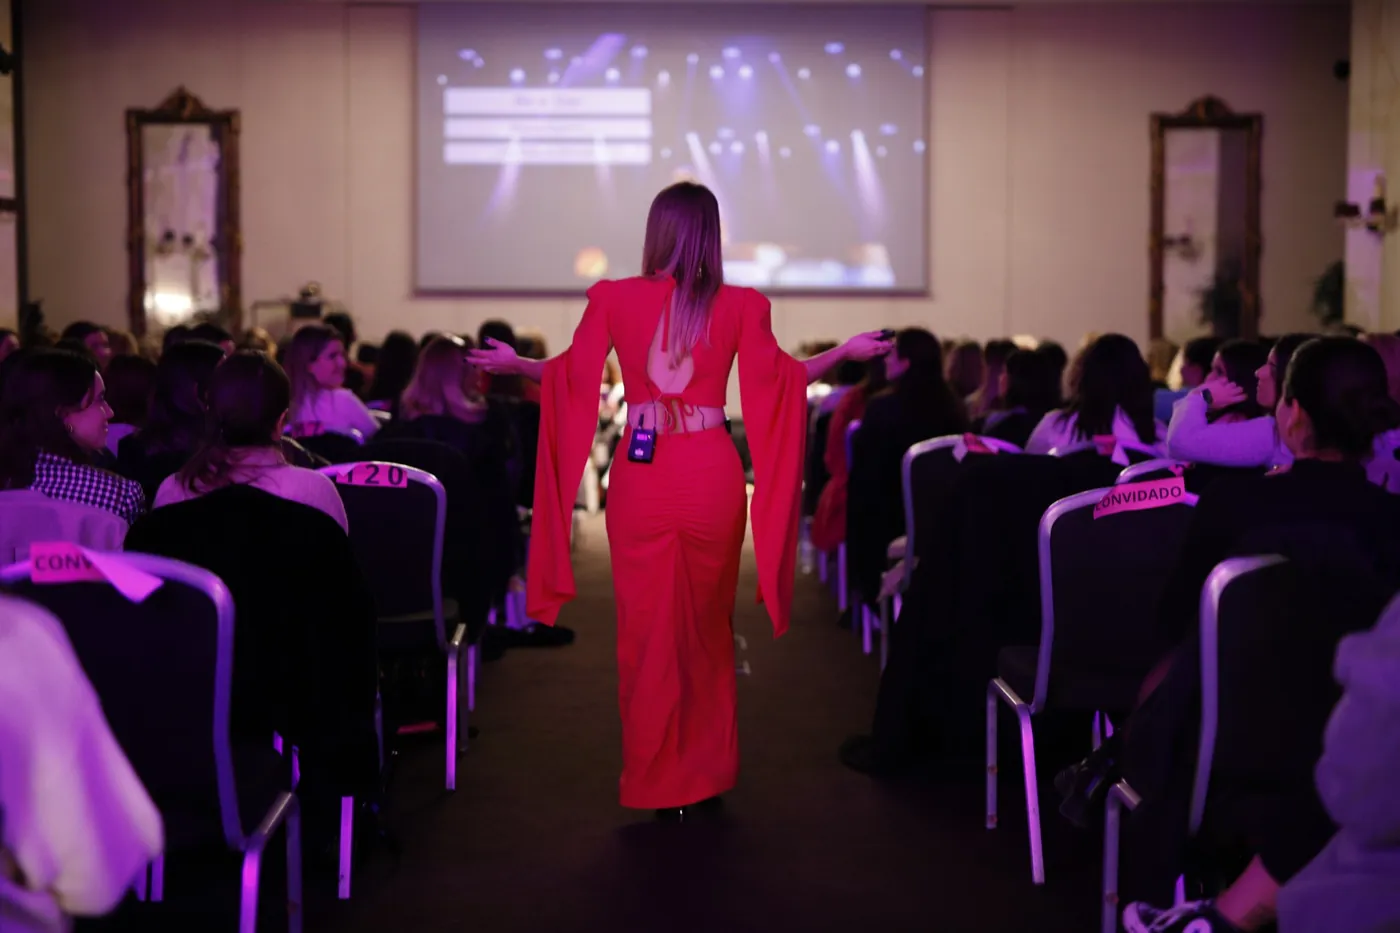
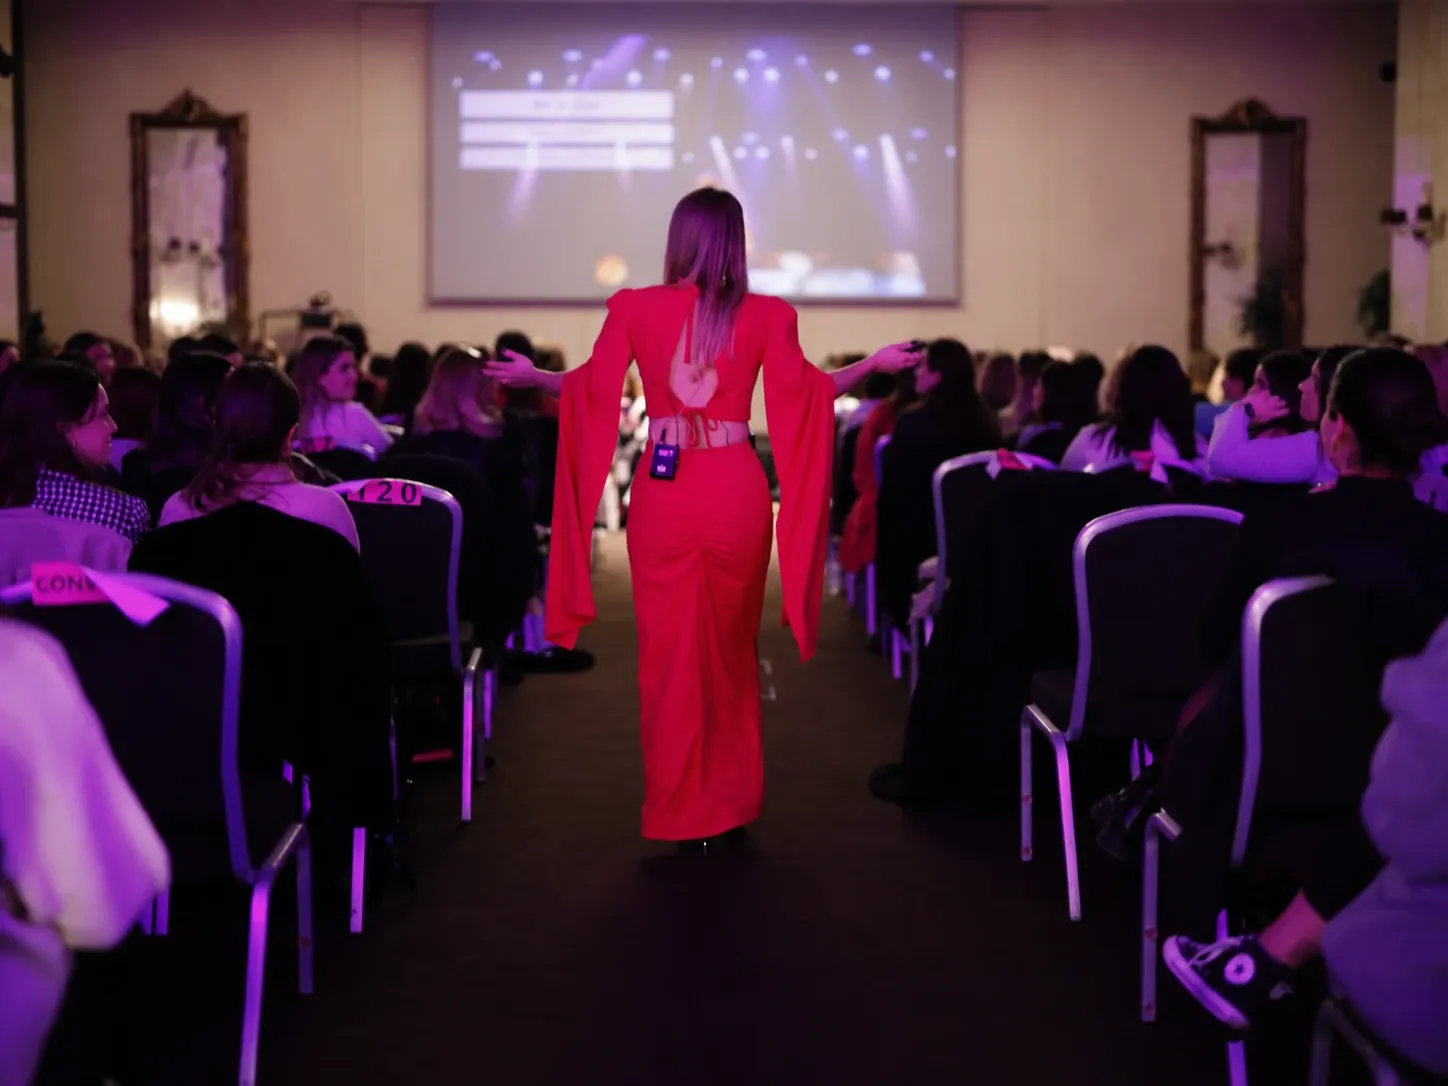
Nova foto do corredor, encostada à direita
Claude-Session: https://claude.ai/code/session_01LfWUhj3QEXYFQHs7pY6TRY

diff --git a/index.html b/index.html
@@ -178,9 +178,11 @@ p + p{margin-top:16px}
 
 /* faixa com foto a toda a largura: véu vinho mais forte do lado do texto (gradiente linear, sem glow) */
 .faixa-foto{position:relative;overflow:hidden;isolation:isolate;background:var(--vinho);color:rgba(249,245,236,.85);padding:clamp(96px,12vw,160px) 0}
-.faixa-foto__img{position:absolute;left:0;top:-10%;width:100%;height:120%;object-fit:cover;object-position:50% 55%;z-index:-2}
+/* foto encostada à direita (68% da largura) para a Mafalda ficar ao lado do texto e não por baixo dele */
+.faixa-foto__img{position:absolute;left:auto;right:0;top:-10%;width:68%;height:120%;object-fit:cover;object-position:50% 50%;z-index:-2}
+@media (max-width:860px){.faixa-foto__img{width:100%}}
 .faixa-foto::before{content:"";position:absolute;inset:0;z-index:-1;
-  background:linear-gradient(90deg,rgba(42,4,13,.94) 0%,rgba(42,4,13,.86) 38%,rgba(42,4,13,.45) 70%,rgba(42,4,13,.25) 100%)}
+  background:linear-gradient(90deg,rgb(42,4,13) 0%,rgb(42,4,13) 32%,rgba(42,4,13,.55) 50%,rgba(42,4,13,.15) 72%,rgba(42,4,13,.1) 100%)}
 .faixa-foto__conteudo{max-width:560px}
 .faixa-foto .eyebrow{color:var(--dourado-claro)}
 .faixa-foto h2{color:var(--marfim)}
@@ -420,7 +422,7 @@ p + p{margin-top:16px}
 
   <!-- 2b · O QUE LEVAS: foto do corredor a toda a largura, com véu vinho e texto por cima -->
   <section class="faixa-foto" id="levas">
-    <img class="faixa-foto__img" data-parallax="0.12" src="assets/img/mafalda-corredor.webp" alt="" width="1400" height="933" loading="lazy">
+    <img class="faixa-foto__img" data-parallax="0.12" src="assets/img/mafalda-corredor.webp" alt="" width="1448" height="1086" loading="lazy">
     <div class="wrap">
       <div class="faixa-foto__conteudo">
         <p class="eyebrow rv">Dois dias com a Mafalda</p>
